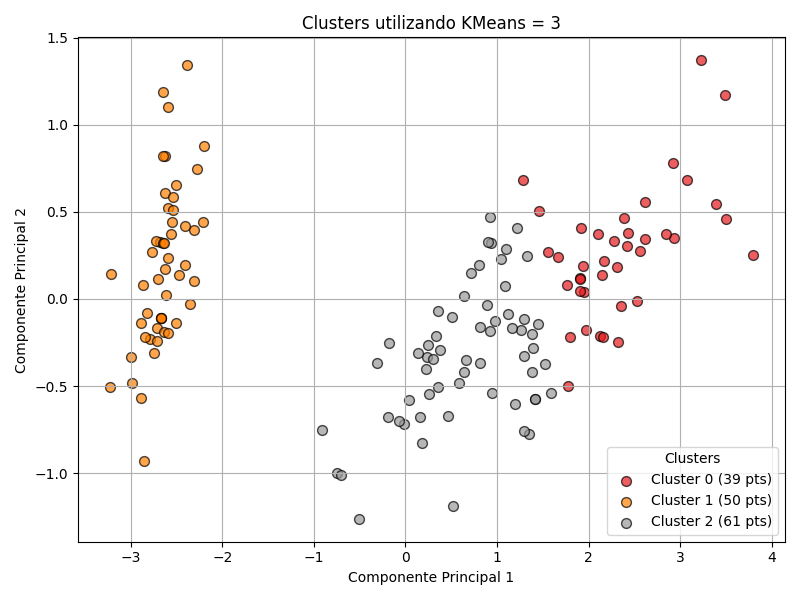
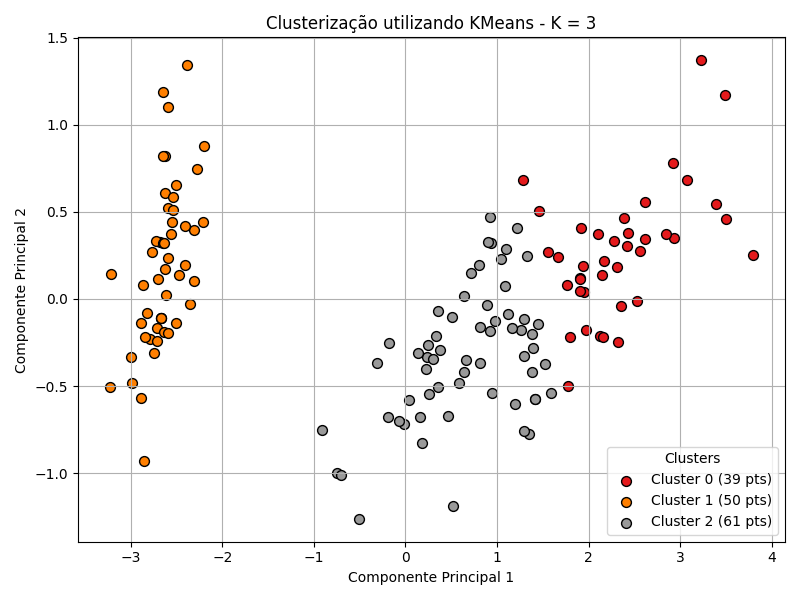
adc trab2 feito

diff --git a/trab2/iris_kmeans3.py b/trab2/iris_kmeans3.py
@@ -11,37 +11,38 @@ iris = fetch_ucirepo(id=53)
 X = iris.data.features
 y = iris.data.targets
 
+for i in range(2,4):
+    kmeans = KMeans(n_clusters=i, random_state=42, n_init='auto')
+    y_kmeans = kmeans.fit_predict(X) 
 
-kmeans = KMeans(n_clusters=3, random_state=42, n_init='auto')
-y_kmeans = kmeans.fit_predict(X) 
+    pca = PCA(n_components=2)
+    X_pca = pca.fit_transform(X)
 
+    y_labels = y_kmeans  
+    unique_labels, counts = np.unique(y_labels, return_counts=True)
+    colors = plt.cm.Set1(np.linspace(0, 1, len(unique_labels)))
+    plt.figure(figsize=(8, 6))
+    for label, count, color in zip(unique_labels, counts, colors):
+        idx = y_labels == label
+        plt.scatter(X_pca[idx, 0], X_pca[idx, 1],
+                    color=color,
+                    label=f'Cluster {label} ({count} pts)',
+                    edgecolor='k',
+                    alpha=1,
+                    s=50)
 
-pca = PCA(n_components=2)
-X_pca = pca.fit_transform(X)
+    plt.title(f'Clusterização utilizando KMeans - K = {i}')
+    plt.xlabel('Componente Principal 1')
+    plt.ylabel('Componente Principal 2')
+    plt.legend(title='Clusters', loc='best')
+    plt.grid(True)
+    plt.tight_layout()
+    plt.savefig(f"./graficos/kmeans{i}")
 
-y_labels = y_kmeans  
-unique_labels, counts = np.unique(y_labels, return_counts=True)
-colors = plt.cm.Set1(np.linspace(0, 1, len(unique_labels)))
-plt.figure(figsize=(8, 6))
-for label, count, color in zip(unique_labels, counts, colors):
-    idx = y_labels == label
-    plt.scatter(X_pca[idx, 0], X_pca[idx, 1],
-                color=color,
-                label=f'Cluster {label} ({count} pts)',
-                edgecolor='k',
-                alpha=0.7,
-                s=50)
+    sil_score = silhouette_score(X, y_kmeans)
+    ari = adjusted_rand_score(y.values.ravel(), y_kmeans)
 
-plt.title('Clusters utilizando KMeans = 3')
-plt.xlabel('Componente Principal 1')
-plt.ylabel('Componente Principal 2')
-plt.legend(title='Clusters', loc='best')
-plt.grid(True)
-plt.tight_layout()
-plt.savefig("./graficos/kmeans3")
+    print(f"Silhouette Score: {sil_score:.3f}")
+    print(f"Adjusted Rand Index (ARI): {ari:.3f}")
 
-sil_score = silhouette_score(X, y_kmeans)
-ari = adjusted_rand_score(y.values.ravel(), y_kmeans)
-
-print(f"Silhouette Score: {sil_score:.3f}")
-print(f"Adjusted Rand Index (ARI): {ari:.3f}")
+    

diff --git a/trab2/iris_agrupamento_hierarquico.py b/trab2/iris_agrupamento_hierarquico.py
@@ -10,37 +10,36 @@ iris = fetch_ucirepo(id=53)
 X = iris.data.features
 y = iris.data.targets
 
-agg = AgglomerativeClustering(n_clusters=3)
-y_agg = agg.fit_predict(X)
+for i in range(2,4):
+    agg = AgglomerativeClustering(n_clusters=i)
+    y_agg = agg.fit_predict(X) 
 
+    pca = PCA(n_components=2)
+    X_pca = pca.fit_transform(X)
 
-pca = PCA(n_components=2)
-X_pca = pca.fit_transform(X)
+    y_labels = y_agg  
+    unique_labels, counts = np.unique(y_labels, return_counts=True)
+    colors = plt.cm.Set1(np.linspace(0, 1, len(unique_labels)))
+    plt.figure(figsize=(8, 6))
+    for label, count, color in zip(unique_labels, counts, colors):
+        idx = y_labels == label
+        plt.scatter(X_pca[idx, 0], X_pca[idx, 1],
+                    color=color,
+                    label=f'Cluster {label} ({count} pts)',
+                    edgecolor='k',
+                    alpha=1,
+                    s=50)
+        
+    plt.title(f'Clusters utilizando AgglomerativeClustering = {i}')
+    plt.xlabel('Componente Principal 1')
+    plt.ylabel('Componente Principal 2')
+    plt.legend(title='Clusters', loc='best')
+    plt.grid(True)
+    plt.tight_layout()
+    plt.savefig(f"./graficos/agrupamento_hierarquico{i}")
 
-y_labels = y_agg 
-unique_labels, counts = np.unique(y_labels, return_counts=True)
-colors = plt.cm.Set1(np.linspace(0, 1, len(unique_labels)))
+    sil_score = silhouette_score(X, y_agg)
+    ari = adjusted_rand_score(y.values.ravel(), y_agg)
 
-plt.figure(figsize=(8, 6))
-for label, count, color in zip(unique_labels, counts, colors):
-    idx = y_labels == label
-    plt.scatter(X_pca[idx, 0], X_pca[idx, 1],
-                color=color,
-                label=f'Cluster {label} ({count} pts)',
-                edgecolor='k',
-                alpha=0.7,
-                s=50)
-
-plt.title('Clusters utilizando AgglomerativeClustering = 3')
-plt.xlabel('Componente Principal 1')
-plt.ylabel('Componente Principal 2')
-plt.legend(title='Clusters', loc='best')
-plt.grid(True)
-plt.tight_layout()
-plt.savefig("./graficos/agrupamento_hierarquico")
-
-sil_score = silhouette_score(X, y_agg)
-ari = adjusted_rand_score(y.values.ravel(), y_agg)
-
-print(f"Silhouette Score: {sil_score:.3f}")
-print(f"Adjusted Rand Index (ARI): {ari:.3f}")
+    print(f"Silhouette Score: {sil_score:.3f}")
+    print(f"Adjusted Rand Index (ARI): {ari:.3f}")

diff --git a/trab2/iris_pairplot.py b/trab2/iris_pairplot.py
@@ -9,6 +9,10 @@ iris = fetch_ucirepo(id=53)
 X = iris.data.features
 y = iris.data.targets
 
-sns.pairplot(pd.DataFrame(X, columns=iris.feature_names), diag_kind='kde')
-plt.suptitle('Pairplot sem rótulos - Análise Visual de Grupos Naturais', y=1.02)
-plt.savefig("./graficos/Pairplot_sem_rotulos")
+# sns.pairplot(pd.DataFrame(X, columns=iris.feature_names), diag_kind='kde')
+# plt.suptitle('Pairplot sem rótulos - Análise Visual de Grupos Naturais', y=1.02)
+# plt.savefig("./graficos/Pairplot_sem_rotulos")
+
+df = pd.DataFrame(X, columns=iris.feature_names)
+sns.pairplot(df[['petal length', 'petal width']], diag_kind='kde')
+plt.savefig("./graficos/pairplot_petal")

diff --git a/trab2/iris_pca.py b/trab2/iris_pca.py
@@ -4,6 +4,7 @@ import pandas as pd
 import seaborn as sns
 import matplotlib.pyplot as plt
 
+
 #carregar dataset iris
 iris = fetch_ucirepo(id=53)
 
